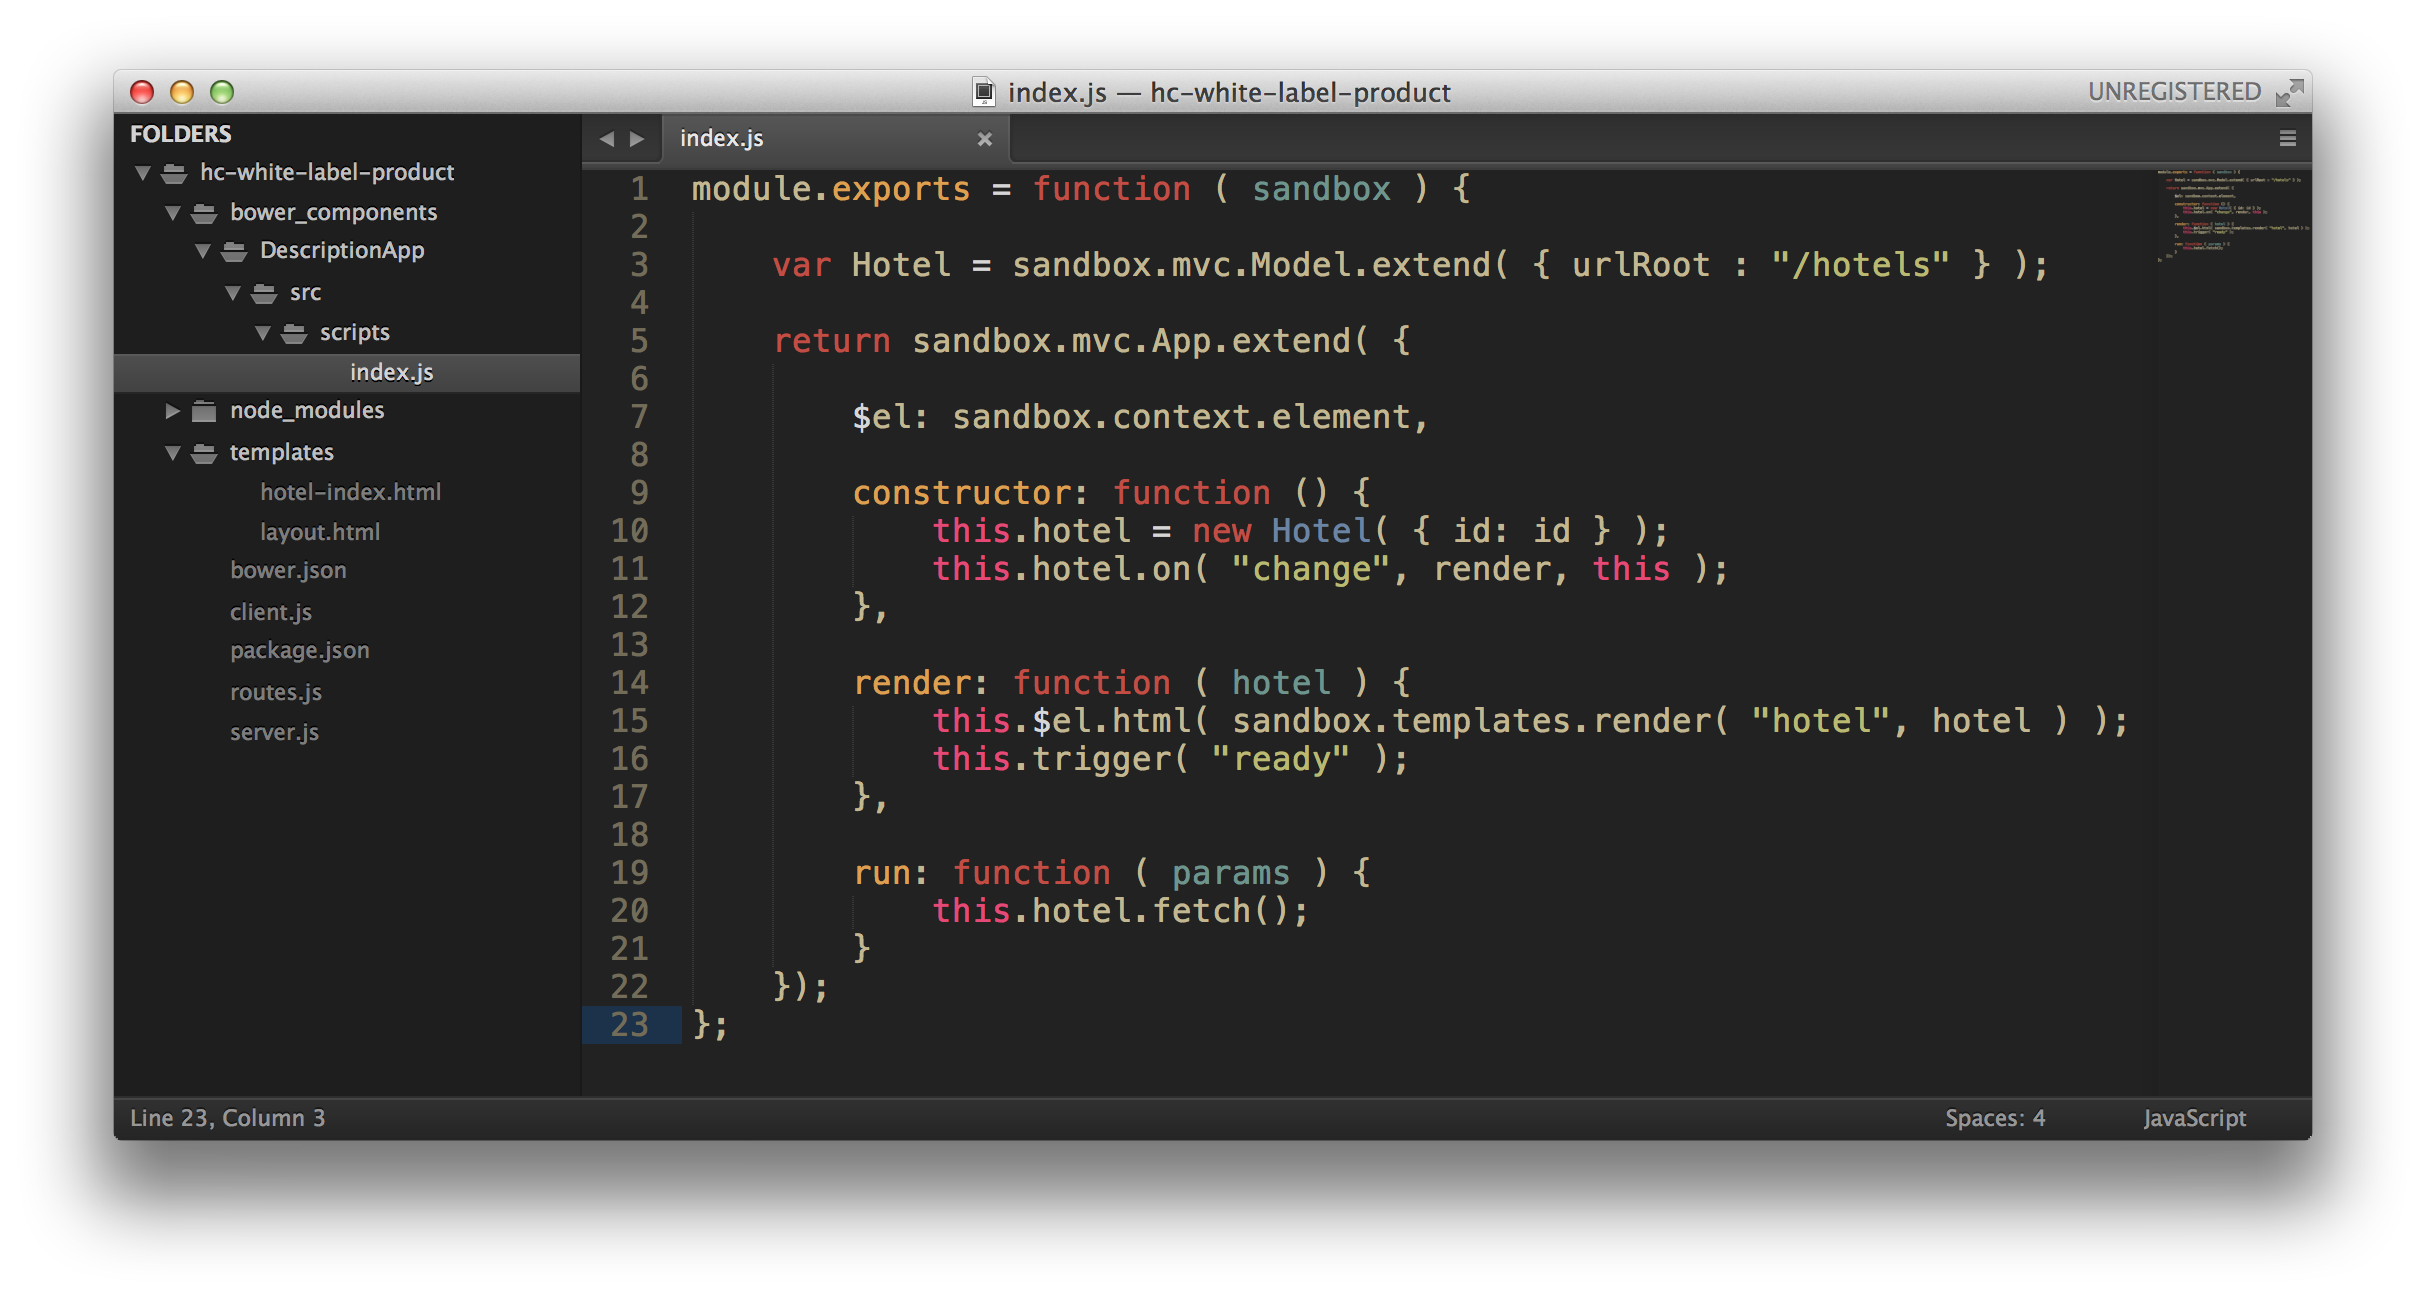
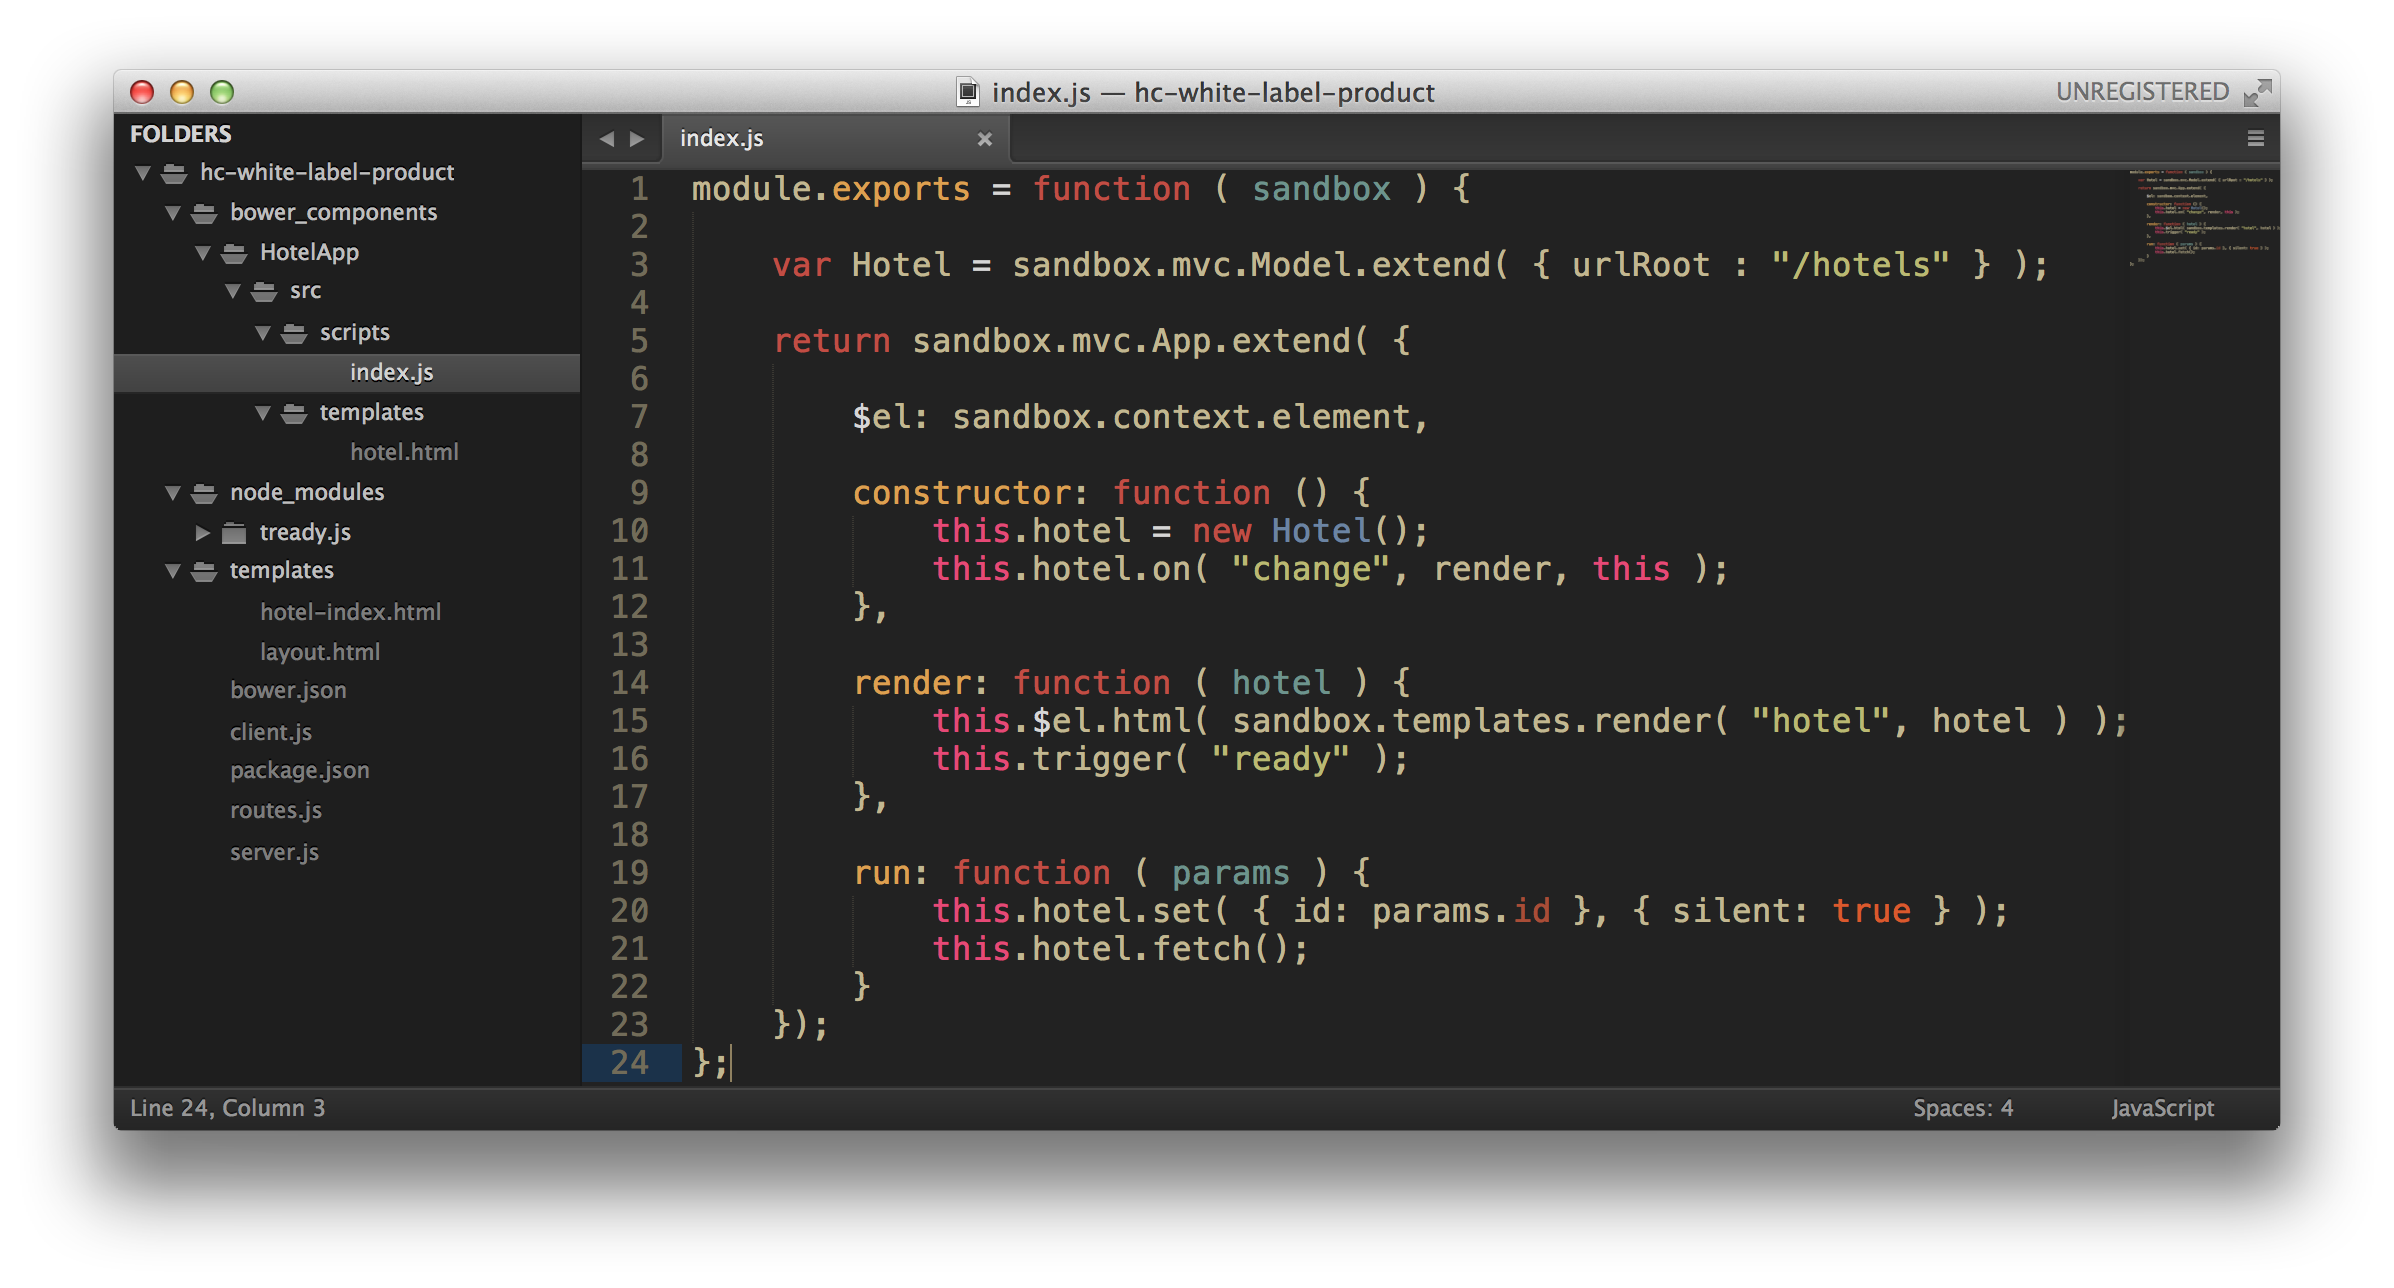
update

diff --git a/index.html b/index.html
@@ -10,7 +10,7 @@
 	<link href="talk.css" rel="stylesheet" />
 	<script src="prefixfree.min.js"></script>
 </head>
-<body data-duration="20">
+<body data-duration="30">
 
 <section>
 	<header id="intro" class="slide">
@@ -20,7 +20,15 @@
 
 <section>
     <header class="slide anger">
-        <h1 class="delayed">SEO and <strong>JavaScript</strong></h1>
+        <!-- <h1 class="delayed">SEO and <strong>JavaScript</strong></h1> -->
+    </header>
+
+    <header class="slide">
+        <h1><strong>assumption</strong></h1>
+    </header>
+
+    <header class="slide">
+        <h1><strong>javascript</strong>is<strong>bad</strong></h1>
     </header>
 
     <header class="slide">
@@ -90,10 +98,9 @@ function run ( id ) {
     </header>
 
     <header class="slide slow">
-        <ul>
+        <!-- <ul>
             <li class="delayed">slow</li>
-            <li class="delayed">leaky</li>
-        </ul>
+        </ul> -->
     </header>
 
     <header class="slide">
@@ -256,7 +263,10 @@ server.get( "/hotels/:id",
 server.listen( 80 );
         </code></pre>
     </section>
-    
+</section>
+
+<section>    
+
     <section class="slide hi"></section>
 
     <section class="slide hi--highlighted"></section>
@@ -274,7 +284,7 @@ server.listen( 80 );
         $el: sandbox.context.element,
 
         constructor: function () {
-            this.hotel = new Hotel( { id: id } );
+            this.hotel = new Hotel();
             this.hotel.on( "change", render, this );
         },
 
@@ -284,6 +294,7 @@ server.listen( 80 );
         },
 
         run: function ( params ) {
+            this.hotel.set( { id: params.id }, { silent: true } );
             this.hotel.fetch();
         }
     });
